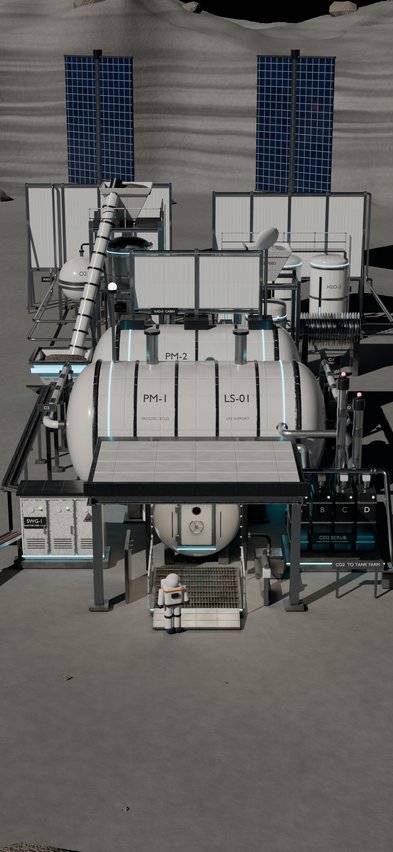
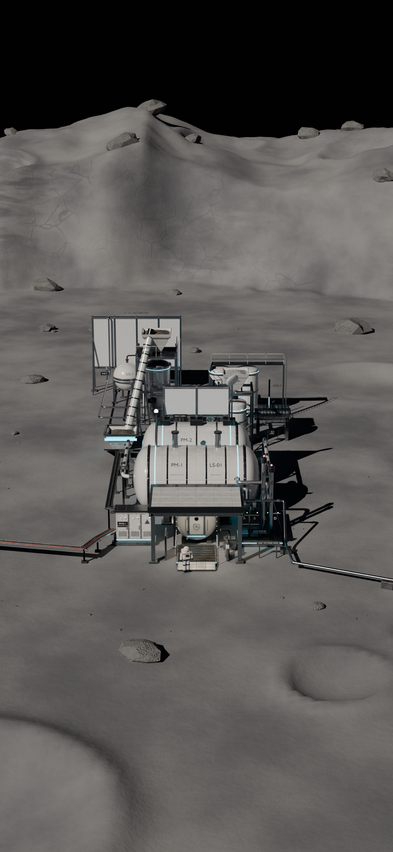
10/23/2026 - planet-stack - 09:40

diff --git a/art/3d/buildings/life_support/_src/build_life_support.py b/art/3d/buildings/life_support/_src/build_life_support.py
@@ -877,6 +877,17 @@ if 'phone' in ONLY:
     # in-game phone camera (Game Coder spec): aimed at Cam_Target, 38 deg vertical FOV (sensor_fit VERTICAL), 18 deg down, from -Y;
     # d = (W/2) / (tan(19 deg) * w/h) ~= 3.148 * W.  W = 34: whole station in y 316-570 of 852, every tier <= 34 m from Cam_Target
     sc = bpy.context.scene
+    if A.get('tiers') != '1':   # default tier state (as in the game): hide the 5 upgrade tiers, same name rules as build_game_glb_tiered.group_of
+        def _bc(o):
+            bb = [o.matrix_world @ Vector(c) for c in o.bound_box]; return Vector([(min(v[i] for v in bb) + max(v[i] for v in bb)) / 2 for i in range(3)])
+        def _tier(o):
+            n, c = o.name, _bc(o)
+            return (n.startswith('rad2_') or (n.startswith('o2_tank') and math.hypot(c.x + 3.3, c.y - 28.6) < 1.8)
+                    or (n.startswith(('co2_bed', 'co2_actuator', 'co2_valve')) and c.x > 4.55)
+                    or (n.startswith('h2o_tank') and math.hypot(c.x - 7.4, c.y - 23.4) < 1.3) or n.startswith('solar_'))
+        _hid = [o for o in coll('Mine').all_objects if o.type in ('MESH', 'CURVE', 'FONT') and _tier(o)]
+        for o in _hid: o.hide_render = True
+        print('PHONE tiers hidden', len(_hid), flush=True)
     w, h = (1179, 2556) if not QUICK else (393, 852)
     if A.get('pres'): w, h = [int(v) for v in A['pres'].split('x')]
     half = math.radians(PHONE_CAM['fov_y'] / 2); d = (PHONE_CAM['frame_w'] / 2) / (math.tan(half) * w / h)

diff --git a/art/3d/buildings/life_support/README.md b/art/3d/buildings/life_support/README.md
@@ -9,8 +9,8 @@ Everything is original. There are no real logos, only invented stencils (LS-01, 
 |---|---|
 | Triangles (master, `Mine` collection) | **264,277** (1,125 objects) |
 | Master GLB | `life_support_master.glb`, 1.49 MB, meshopt + quantization (`gltfpack -cc -kn -km`), **no Draco**, one node per part. Review asset only: it keeps the master's clearcoat/transmission/ior material extensions. |
-| **Game GLB** | `life_support_game.glb`, **197,744 B (0.19 MB)**, **23,795 triangles and 11 draw calls with every tier visible** (base 17,999 tris / 4 draws). Materials `SHM_Paint`, `SHM_Metal`, `SHM_GlowCyan`, `SHM_GlowWhite` from `../_shared/shared_materials.json`. Extensions: `EXT_meshopt_compression` and `KHR_mesh_quantization` only. Plain metallic/roughness, no transmission/clearcoat/ior, no textures. Colour comes from `COLOR_0` vertex colours. Single-sided. No astronaut. Tier nodes, moving parts and markers: see *Game GLB nodes* below. md5 `eac16d1bf6f782267f46be455d5ce5d1` |
-| Units / axes / origin | 1 m, Y up. The front (airlock) faces +Z. The **origin is the station focus**: on the ground, on the PM-1 / airlock axis. The game camera looks at this point. The bbox is not centred because the plants sit behind the modules. |
+| **Game GLB** | `life_support_game.glb`, **197,880 B (0.19 MB)**, **23,795 triangles and 11 draw calls with every tier visible** (base 17,999 tris / 4 draws). Materials `SHM_Paint`, `SHM_Metal`, `SHM_GlowCyan`, `SHM_GlowWhite` from `../_shared/shared_materials.json`. Extensions: `EXT_meshopt_compression` and `KHR_mesh_quantization` only. Plain metallic/roughness, no transmission/clearcoat/ior, no textures. Colour comes from `COLOR_0` vertex colours. Single-sided. No astronaut. Tier nodes, moving parts and markers: see *Game GLB nodes* below. md5 `e8427ec46e93fa04b4d1a7468644d992` |
+| Units / axes / origin | 1 m, Y up. The front (airlock) faces +Z. The **origin is the station focus**: on the ground, on the PM-1 / airlock axis. The game camera aims at `Cam_Target` (see markers). The bbox is not centred because the plants sit behind the modules. |
 | Footprint | X −10.7…10.5 m (21 m wide), depth from 11.9 m in front of the origin to 42.3 m behind it (solar masts). Mast tops are at 15.5 m. |
 | Scale | astronaut = 1.8 m (review renders only; it is in the Stage collection and is never exported) |
 
@@ -20,7 +20,7 @@ The in-game station camera (`qa3d/main.js`: fov 38° vertical, 18° down, look-a
 - **O2 and H2O lines frame the modules.** White-jacketed lines with wide colour bands (green O2, blue H2O) run forward down a central pipe spine. They split behind PM-2 and ride T-post racks at 3 m along both flanks into PM-1's end caps (tags "O2" and "H2O").
 - **Pushed back:** the O2 plant (left) and water plant (right) start about 9 m behind PM-2, and their tall parts (reactor tower, tanks, RAD-1 and RAD-2) show above the hulls. The solar masts are 40 m back, and FPU-1 and its berm are far off-frame.
 - **Simplified for phone size:** the hull labels are re-spaced between seam rings, the vent stacks are shortened, and the guy footprints are tightened. RAD-0 is lowered. The power trays are graphite-only, so they don't read as a red line.
-- The ground and hills use cool grey rock (the starter ship's `M_ground_grey` recipe), and the boulders and dust are re-toned to grey. There is no tan.
+- The ground and hills use the shared `M_ground` (`M_Regolith`) from `mine_concepts/_src/mc_common.py` (imported read-only; the build asserts it). The boulders and dust are re-toned to grey. There is no tan.
 
 ## Systems (left to right in the hero)
 - **Power hookup:** the reactor feeder (cable tray on stanchions) comes from fission unit **FPU-1**. FPU-1 sits behind its own ring berm with
@@ -52,7 +52,7 @@ The in-game station camera (`qa3d/main.js`: fov 38° vertical, 18° down, look-a
   `blender -b life_support_master.blend -P _src/build_game_glb.py -- --out raw.glb`, then `gltfpack -i raw.glb -o life_support_game.glb -cc`
 - `_src/make_sheet.py`: builds the contact sheet (`python3 make_sheet.py turntable life_support_turntable_sheet.png TITLE SUB hero.png`)
 - `life_support_master.blend`: full scene (procedural shading, stage, lights, cameras)
-- `life_support_phone_1179x2556.png` and `life_support_phone_393x852.png`: in-game station camera view (3× master, and its Lanczos downscale)
+- `life_support_phone_1179x2556.png` and `life_support_phone_393x852.png`: in-game camera view (aimed at `Cam_Target`, frame_w 34, 3× master and its Lanczos downscale), default tier state
 - `life_support_game_preview_393x852.png`: the game GLB itself (all tiers visible) from the same camera (flat preview render, plain grey ground)
 - `life_support_hero_3840x2160.png`: hero render (Cycles, OIDN, AgX Punchy)
 - `turntable/turn_000..315.png` and `life_support_turntable_sheet.png`: 8 angles at 45° steps, plus the contact sheet
@@ -73,7 +73,7 @@ All under the root `LifeSupport`. Glows on tier parts are folded into `SHM_Paint
 
 Tier nodes carry `extras` `{"tier": N, "hidden_by_default": true}` (three.js: `userData`). glTF has no hidden flag, so the loader must set `visible = false` on load.
 Clips: `Fan_Scrubber_Spin` (1.0 s loop, 1 rev/s, quaternion), `Beacon_Lights_Blink` (1.5 s loop: 0.3 s on, then scale 0.001 for 1.2 s).
-Markers (empty nodes): `Airlock_Door` (0, 1.70, 7.86, centre of the hatch's outer face, facing +Z), `Crew_Path_01..05` from the hatch out over the dust mat and ramp to open ground (z 8.4, 9.6, 11.4, 13.2, 15.5 on x = 0), `Pipe_TankFarm` (6.60, 0.60, 11.80, open flange at the end of the CO2 transfer line, facing +Z).
+Markers (empty nodes): `Airlock_Door` (0, 1.70, 7.86, centre of the hatch's outer face, facing +Z), `Crew_Path_01..05` from the hatch out over the dust mat and ramp to open ground (z 8.4, 9.6, 11.4, 13.2, 15.5 on x = 0), `Pipe_TankFarm` (6.60, 0.60, 11.80, open flange at the end of the CO2 transfer line, facing +Z), `Cam_Target` (0, 2.50, -12.50; empty only, extras `{"frame_w": 34}`): the in-game camera aims here from -Z+up at 18 deg pitch, 38 deg vertical FOV, distance (W/2)/(tan 19 deg x 393/852) = 107.03 m. Every tier is within 34 m (3D) of it.
 
 ## Validation (game GLB)
 Loaded in Node with three.js `GLTFLoader` plus `MeshoptDecoder` (three r17x from npm). Result: 11 meshes / 11 draw calls, 23,795 triangles, 30,318 vertices (all tiers visible), materials SHM_GlowCyan/GlowWhite/Metal/Paint, extensionsUsed = [KHR_mesh_quantization, EXT_meshopt_compression], no images or textures.
